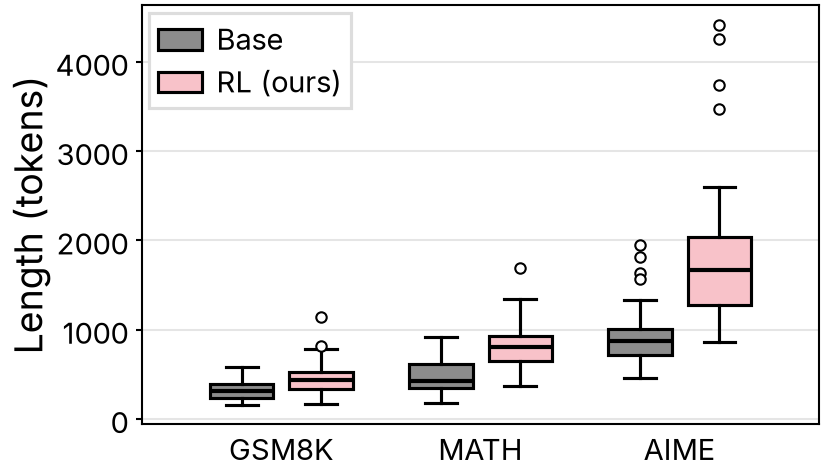
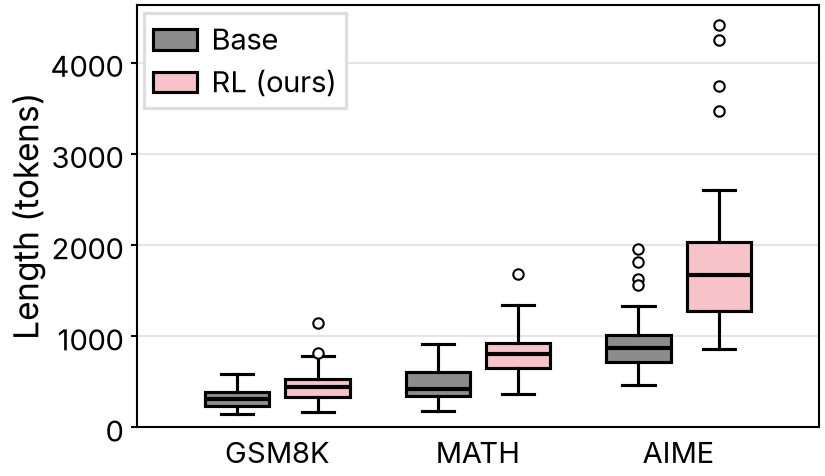
Standard box: panels start and end at standard margins, single or grid
fit_height places panels so that every figure of one width and column count has
panels of the same size and position, whenever the outer labels fit an axis
label plus four-character ticks on the left and half a tick on the right.

Claude-Session: https://claude.ai/code/session_01Vy1dAkyLNTuzaw6HFfW3zb

diff --git a/skills/academic-figure/assets/paper.py b/skills/academic-figure/assets/paper.py
@@ -325,6 +325,61 @@ def _warn_layout_problems(fig, panels, min_width):
                 warnings.warn(f"the legend covers filled marks (bars, boxes, bands, areas) in panel {a.get_title()!r}; move it")
 
 
+def _standard_margins(fig):
+    """The left and right margins, in inches, of a standard panel: on the left a y-axis label and
+    four-character tick labels, on the right half of a four-character tick label at the x axis' end."""
+    renderer = fig.canvas.get_renderer()
+    sample = fig.text(0, 0, "0000", fontsize=rcParams["ytick.labelsize"])
+    ticks = sample.get_window_extent(renderer).width / fig.dpi
+    sample.remove()
+    label = rcParams["axes.labelsize"] * 1.2 / 72  # one line of the axis label, rotated
+    pads = (rcParams["axes.labelpad"] + rcParams["ytick.major.pad"] + rcParams["ytick.major.size"]) / 72
+    pad = rcParams["figure.constrained_layout.w_pad"]
+    return pad + label + pads + ticks, pad + ticks / 2
+
+
+def _standard_box(fig, panels, aspect):
+    """Panels whose outer decorations fit the standard margins start and end exactly there, so the
+    boxes of all figures at one width (and one number of columns) line up and match in size. The
+    gaps between columns and rows stay as the layout found them; the columns share what is left.
+    Returns whether the panels moved."""
+    if (fig.subfigs or any(getattr(a, "_colorbar", None) is not None for a in fig.axes)
+            or len(fig.axes) != len(panels) or _is_round(panels[0])):
+        return False
+    fig.canvas.draw()
+    renderer = fig.canvas.get_renderer()
+    w, h = fig.get_size_inches()
+    boxes = {a: a.get_position() for a in panels}
+    columns = sorted({round(b.x0 * w, 2) for b in boxes.values()})
+    rows = sorted({round(b.y0 * h, 2) for b in boxes.values()}, reverse=True)
+    col_of = {a: columns.index(round(b.x0 * w, 2)) for a, b in boxes.items()}
+    row_of = {a: rows.index(round(b.y0 * h, 2)) for a, b in boxes.items()}
+    left, right = _standard_margins(fig)
+    pad = rcParams["figure.constrained_layout.w_pad"]
+    for a, b in boxes.items():
+        tight = a.get_tightbbox(renderer)
+        if col_of[a] == 0 and b.x0 * w - tight.x0 / fig.dpi + pad > left + 1e-3:
+            return False
+        if col_of[a] == len(columns) - 1 and tight.x1 / fig.dpi - b.x1 * w + pad > right + 1e-3:
+            return False
+    first = {c: next(b for a, b in boxes.items() if col_of[a] == c) for c in range(len(columns))}
+    col_gaps = [first[c + 1].x0 * w - first[c].x1 * w for c in range(len(columns) - 1)]
+    top_row = {r: next(b for a, b in boxes.items() if row_of[a] == r) for r in range(len(rows))}
+    row_gaps = [top_row[r].y0 * h - top_row[r + 1].y1 * h for r in range(len(rows) - 1)]
+    bottom, top = top_row[len(rows) - 1].y0 * h, h - top_row[0].y1 * h
+    panel_w = (w - left - right - sum(col_gaps)) / len(columns)
+    panel_h = aspect * panel_w
+    new_h = bottom + top + len(rows) * panel_h + sum(row_gaps)
+    fig.set_layout_engine("none")
+    fig.set_figheight(new_h)
+    for a in panels:
+        c, r = col_of[a], row_of[a]
+        x0 = left + c * panel_w + sum(col_gaps[:c])
+        y0 = bottom + (len(rows) - 1 - r) * panel_h + sum(row_gaps[r:])
+        a.set_position([x0 / w, y0 / new_h, panel_w / w, panel_h / new_h])
+    return True
+
+
 def _start_at_zero(panels):
     """A quantity that is never negative never shows negative values: raise a default margin below 0 to 0."""
     for a in panels:
@@ -431,6 +486,9 @@ def fit_height(fig, ax, aspect=0.618, iters=10, tol=0.005, min_width=1.2):
     if max(widths) - min(widths) > tol * max(widths):
         warnings.warn("panels have different widths, so not all can match the aspect; "
                       f"panel ratios: {[round(r, 3) for r in ratios]}")
+    if _standard_box(fig, panels, aspect):
+        _keep_value_labels_inside(fig, panels)
+        ratios = _panel_ratios(fig, panels)[0]
     _warn_layout_problems(fig, panels, min_width)
     return ratios
 

diff --git a/skills/academic-figure/assets/DESIGN.md b/skills/academic-figure/assets/DESIGN.md
@@ -225,6 +225,7 @@ fig.savefig("outputs/{id}.pdf")
 ```
 
 - **Panels**: `ax` may be one Axes, an array, a list (also of panels from several sub-figures), or the `subplot_mosaic` dict; hidden cells and colorbars are skipped.
+- **Standard box**: panels start and end at standard margins (left: an axis label plus four-character tick labels; right: half a tick label), so every figure of one width and one number of columns has panels of the same size, in the same place; `fit_height` sets this whenever the outer labels fit those margins, and longer outer labels (category names) take the room they need.
 - **Labels inside**: `fit_height` keeps every `mark_value` label and bar label (`ax.bar_label`) inside its panel, by growing the limits and turning `mark_value` labels at a side edge inward. Point names (annotations in data coordinates) get at most a quarter more axis range; a name that needs more is reported as sticking out, to be moved. Other text is never moved.
 - **Errors**: on `ValueError` (fixed aspect), draw images with `imshow(..., aspect="auto")`; on the "different widths" warning, give all panels the same width.
 
